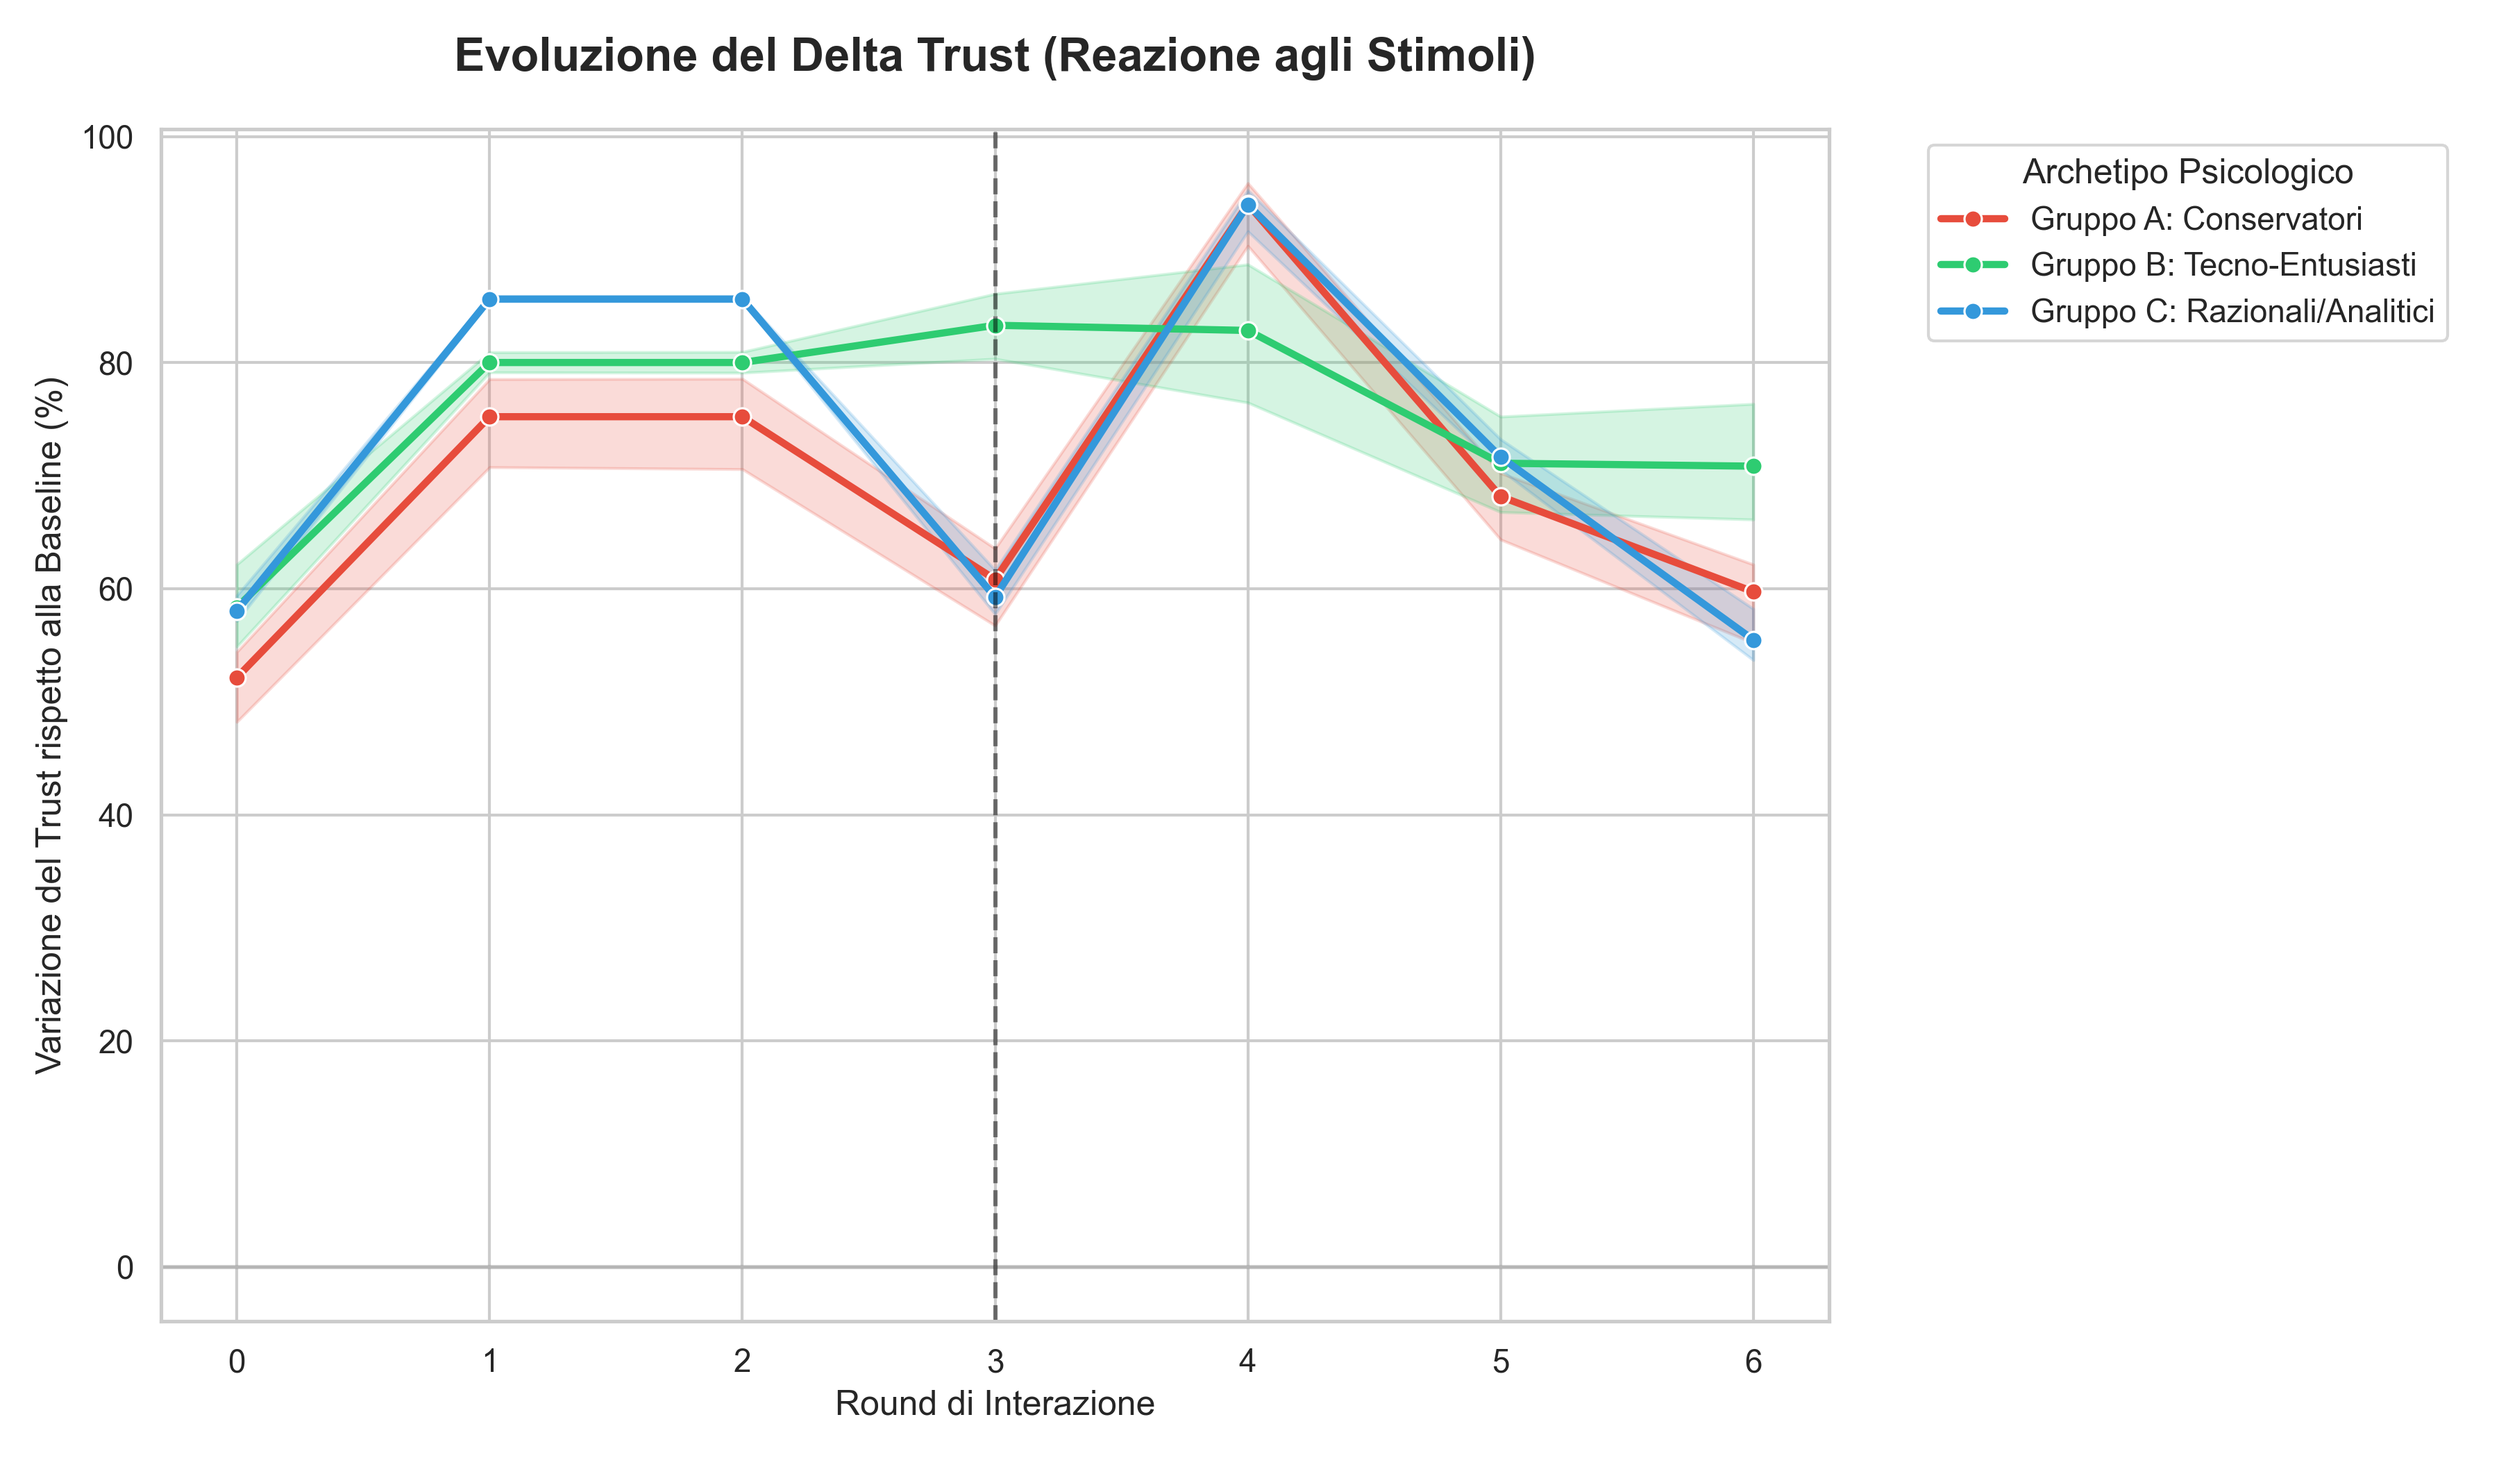
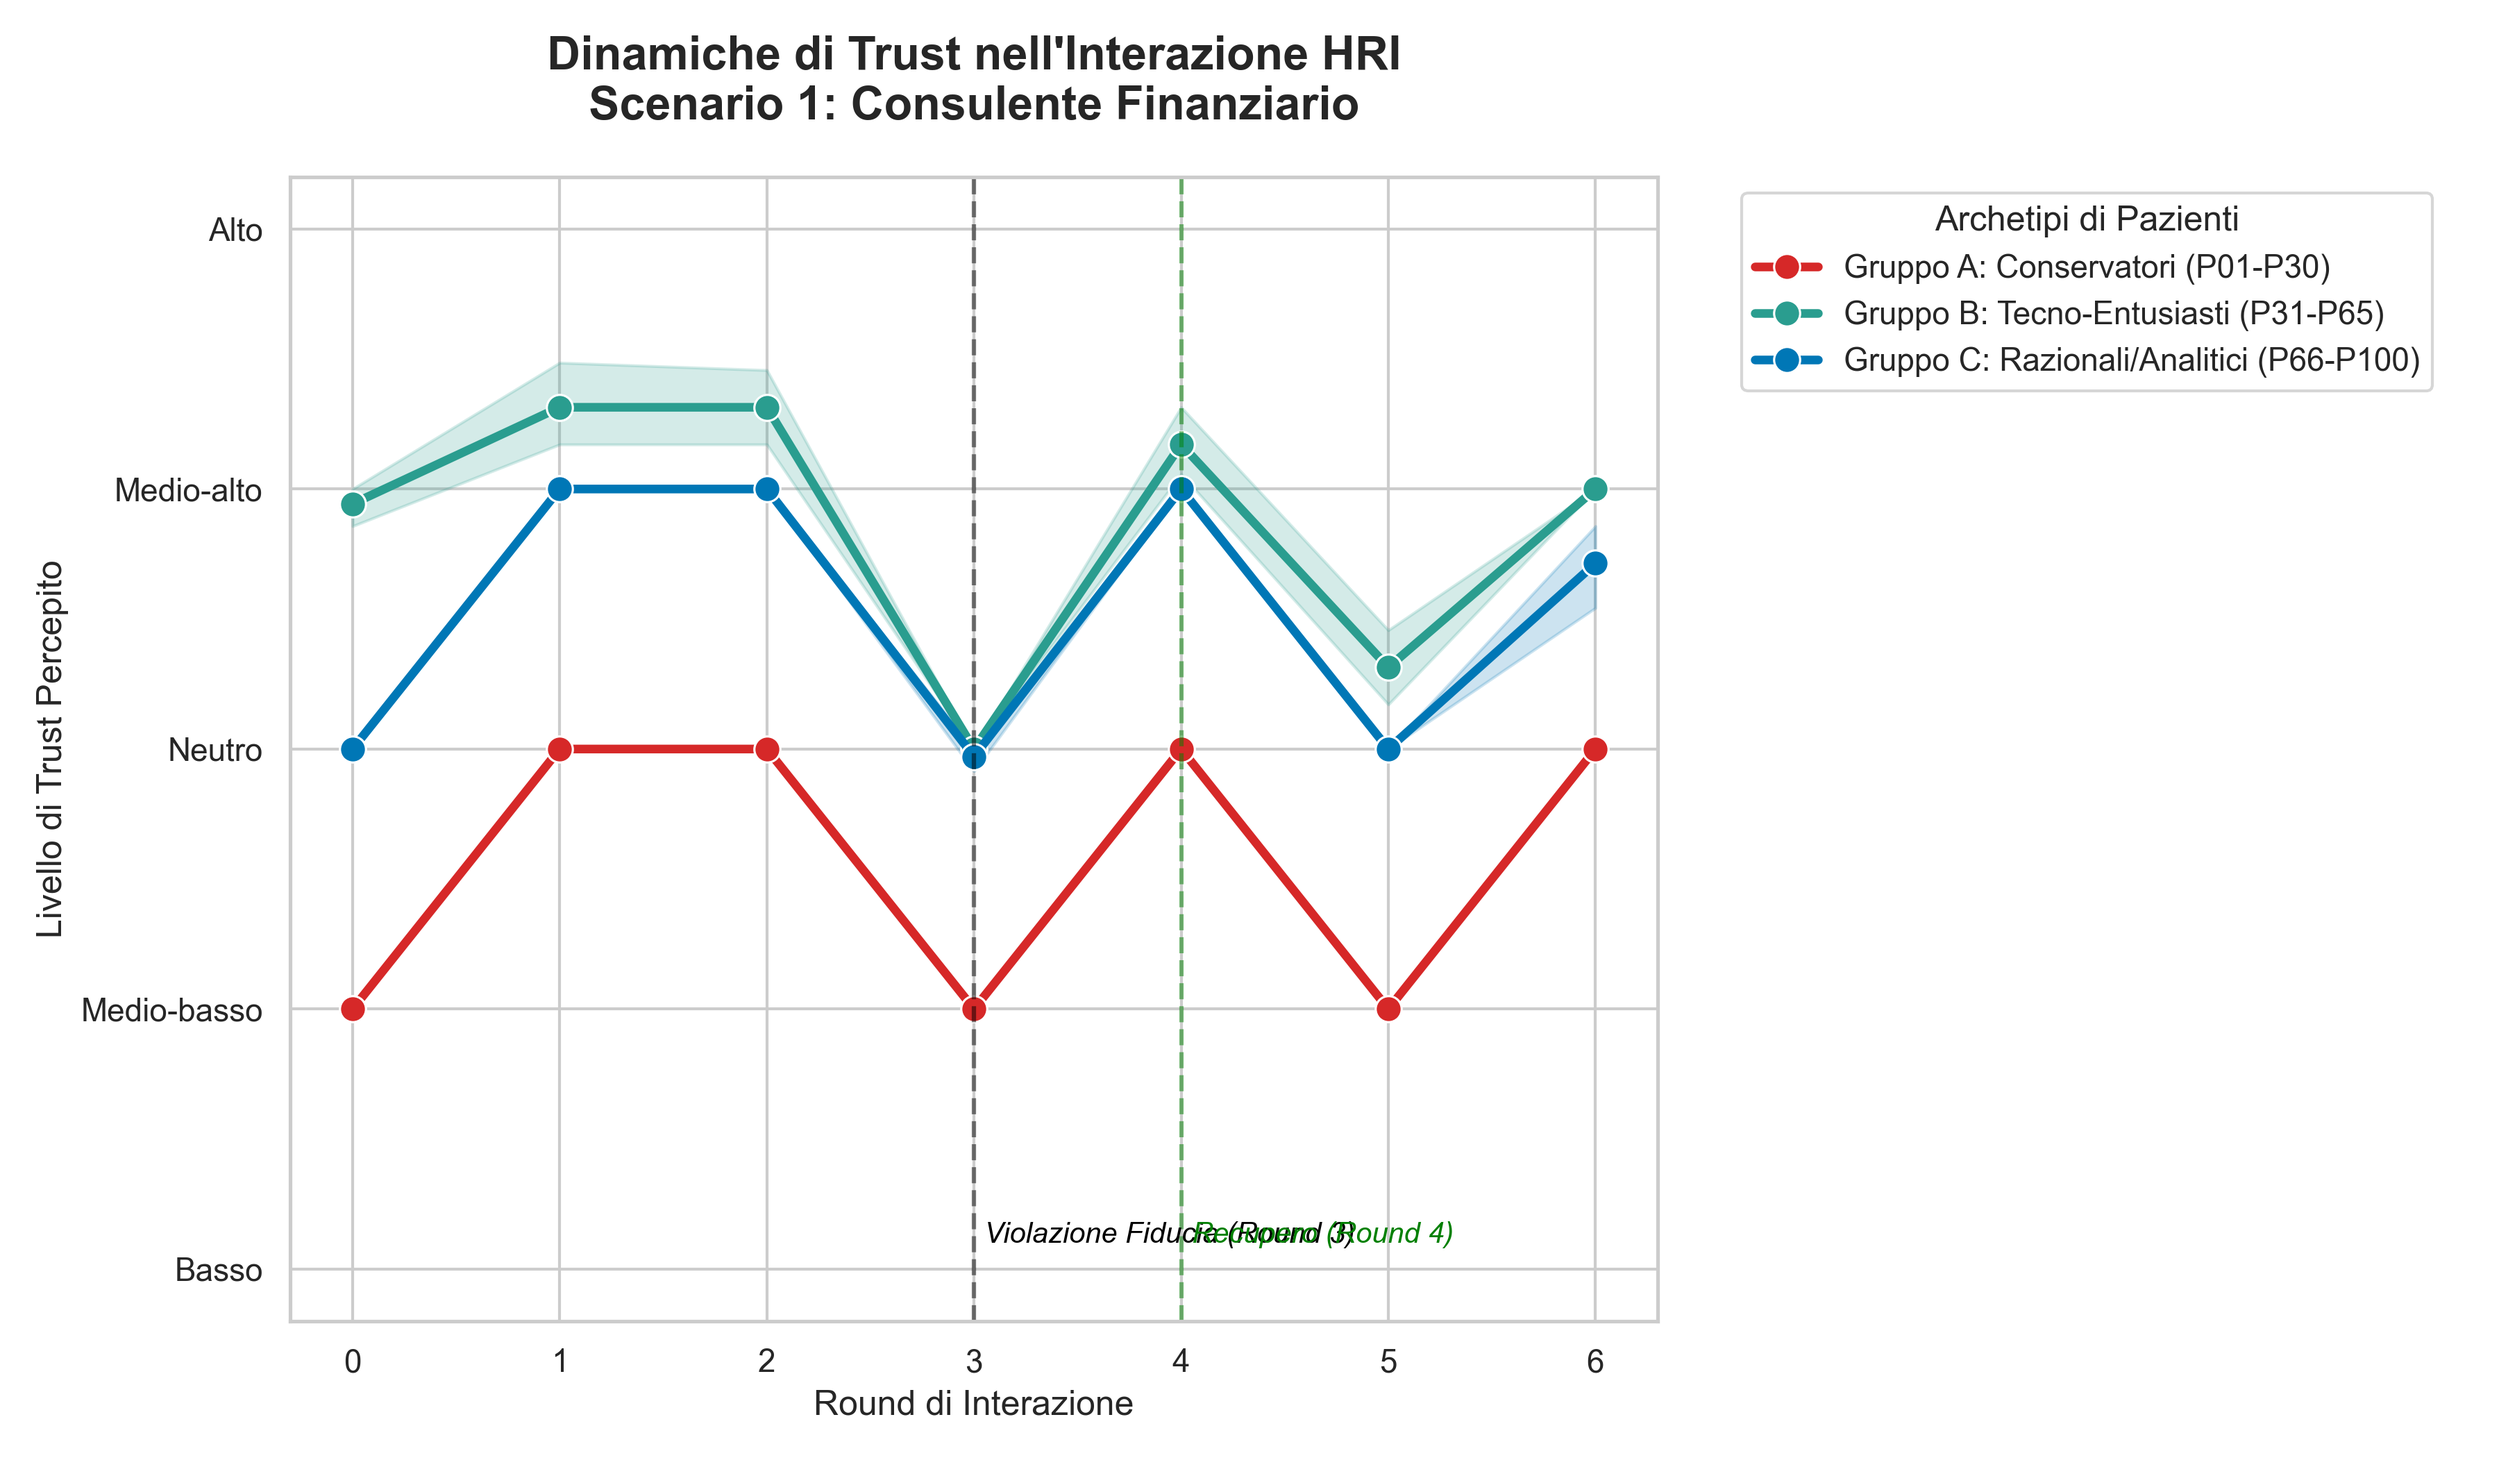
Aggiornati i gruppi e le etichette nel grafico finanziario e medico; migliorata l'estrazione dei dati di fiducia e la visualizzazione grafica.

diff --git a/genera_grafico_finanziario.py b/genera_grafico_finanziario.py
@@ -10,11 +10,20 @@ FILE_INPUT = "risultati_esperimento_finanziario.txt"
 def assegna_gruppo(user_id):
     num = int(user_id.replace("P", ""))
     if num <= 30:
-        return "Gruppo A: Conservatori"
+        return "Gruppo A: Conservatori (P01-P30)"
     elif num <= 65:
-        return "Gruppo B: Tecno-Entusiasti"
+        return "Gruppo B: Tecno-Entusiasti (P31-P65)"
     else:
-        return "Gruppo C: Razionali/Analitici"
+        return "Gruppo C: Razionali/Analitici (P66-P100)"
+
+# Mappa degli stati in valori numerici continui per poterli plottare
+state_to_num = {
+    'Basso': 1,
+    'Medio-basso': 2,
+    'Neutro': 3,
+    'Medio-alto': 4,
+    'Alto': 5
+}
 
 # Parse del file di testo
 dati_grafico = []
@@ -30,21 +39,21 @@ try:
                 gruppo = assegna_gruppo(utente_corrente)
                 continue
             
-            if  not utente_corrente:
+            if not utente_corrente:
                 continue
 
-            # Estrai il Trust Iniziale (Round 0)
-            match_t0 = re.search(r"TRUST INIZIALE \(Round 0\): .* \(([\d\.]+)%\)", linea)
+            # Estrai il Trust Iniziale (Round 0) - Estraiamo l'etichetta testuale
+            match_t0 = re.search(r"TRUST INIZIALE \(Round 0\): \**([a-zA-Z\-]+)\**", linea)
             if match_t0:
-                dati_grafico.append({"Utente": utente_corrente, "Gruppo": gruppo, "Round": 0, "Trust (%)": float(match_t0.group(1))})
+                stato = match_t0.group(1)
+                dati_grafico.append({"Utente": utente_corrente, "Gruppo": gruppo, "Round": 0, "Trust_Value": state_to_num.get(stato, 3)})
             
-            # Estrai il Trust dei Round 1-6 
-            # (Supporta sia la vecchia dicitura che la nuova dicitura "TRUST FINALE")
-            match_round = re.search(r"(?:TRUST CALCOLATO A FINE ROUND|TRUST FINALE \(ROUND) (\d)\)?: .* \(([\d\.]+)%\)", linea)
+            # Estrai il Trust dei Round 1-6 - Estraiamo l'etichetta testuale
+            match_round = re.search(r"(?:TRUST CALCOLATO A FINE ROUND|TRUST FINALE \(ROUND) (\d)\)?: \**([a-zA-Z\-]+)\**", linea)
             if match_round:
                 round_num = int(match_round.group(1))
-                trust_val = float(match_round.group(2))
-                dati_grafico.append({"Utente": utente_corrente, "Gruppo": gruppo, "Round": round_num, "Trust (%)": trust_val})
+                stato = match_round.group(2)
+                dati_grafico.append({"Utente": utente_corrente, "Gruppo": gruppo, "Round": round_num, "Trust_Value": state_to_num.get(stato, 3)})
 
 except FileNotFoundError:
     print(f"Errore: Il file {FILE_INPUT} non è stato trovato nella cartella.")
@@ -53,38 +62,45 @@ except FileNotFoundError:
 # Creazione del DataFrame Pandas
 df = pd.DataFrame(dati_grafico)
 
-# CALCOLO DEL DELTA TRUST
-# Calcoliamo il Trust_0 per ogni utente e sottraiamolo a ogni riga
-df['Trust_0'] = df.groupby('Utente')['Trust (%)'].transform(lambda x: x[x.index == 0].iloc[0] if len(x[x.index == 0]) > 0 else 0)
-df['Delta Trust (%)'] = df['Trust (%)'] - df['Trust_0']
-
 # ==========================================
-# CREAZIONE DEL GRAFICO (DELTA TRUST)
+# CREAZIONE DEL GRAFICO A LIVELLI (1-5)
 # ==========================================
 sns.set_theme(style="whitegrid")
 plt.figure(figsize=(12, 7))
 
+# Colori per rispettare il design dell'immagine
+palette = ["#d62828", "#2a9d8f", "#0077b6"] 
+
 ax = sns.lineplot(
     data=df, 
     x="Round", 
-    y="Delta Trust (%)",
+    y="Trust_Value",
     hue="Gruppo", 
-    palette=["#e74c3c", "#2ecc71", "#3498db"],
+    palette=palette,
     marker="o", 
-    linewidth=2.5,
-    errorbar='ci'
+    linewidth=3,
+    markersize=9,
+    errorbar='ci' # Mostra le bande di confidenza per validità statistica
 )
 
-# Linea dello zero (il punto di partenza comune)
-plt.axhline(0, color='gray', linestyle='-', alpha=0.3)
-# Linea del disastro
-plt.axvline(x=3, color='black', linestyle='--', alpha=0.5)
+# Sostituiamo i numeri sull'asse Y con le etichette di testo (Da Basso ad Alto)
+plt.yticks([1, 2, 3, 4, 5], ['Basso', 'Medio-basso', 'Neutro', 'Medio-alto', 'Alto'])
+plt.ylim(0.8, 5.2)
 
-plt.title("Evoluzione del Delta Trust (Reazione agli Stimoli)", fontsize=16, fontweight='bold', pad=20)
+# Linea del disastro e del recupero
+plt.axvline(x=3, color='black', linestyle='--', alpha=0.5)
+plt.text(3.05, 1.1, 'Violazione Fiducia (Round 3)', color='black', fontsize=10, fontstyle='italic')
+
+plt.axvline(x=4, color='green', linestyle='--', alpha=0.5)
+plt.text(4.05, 1.1, 'Recupero (Round 4)', color='green', fontsize=10, fontstyle='italic')
+
+plt.title("Dinamiche di Trust nell'Interazione HRI\nScenario 1: Consulente Finanziario", fontsize=16, fontweight='bold', pad=20)
 plt.xlabel("Round di Interazione", fontsize=12)
-plt.ylabel("Variazione del Trust rispetto alla Baseline (%)", fontsize=12)
+plt.ylabel("Livello di Trust Percepito", fontsize=12)
 plt.xticks(range(0, 7))
-plt.legend(title="Archetipo Psicologico", bbox_to_anchor=(1.05, 1), loc='upper left')
+
+# Posizioniamo la legenda fuori per non coprire le linee
+plt.legend(title="Archetipi di Pazienti", bbox_to_anchor=(1.05, 1), loc='upper left', fontsize=11)
 
 plt.tight_layout()
 plt.savefig("grafico_finanziario.png", dpi=300)

diff --git a/genera_grafico_medico.py b/genera_grafico_medico.py
@@ -23,17 +23,29 @@ except FileNotFoundError:
     exit()
 
 current_user = None
+gruppo = None
+
+def assegna_gruppo(utente):
+    num = int(utente.replace('P', ''))
+    if num <= 30: return 'Gruppo A: Ansiosi (P01-P30)'
+    elif num <= 65: return 'Gruppo B: Tecno-Entusiasti (P31-P65)'
+    else: return 'Gruppo C: Razionali (P66-P100)'
 
 for line in lines:
     if line.startswith('RISULTATI PER IL PAZIENTE:'):
         current_user = line.split(':')[1].strip()
-        
+        gruppo = assegna_gruppo(current_user)
+        continue
+    
+    if not current_user:
+        continue
+
     # Estrazione Trust Iniziale (Round 0)
     if 'TRUST INIZIALE (Round 0):' in line:
         match = re.search(r'Round 0\): ([a-zA-Z\-]+)', line)
         if match:
             stato = match.group(1)
-            dati_plot.append({'Utente': current_user, 'Round': 0, 'Trust_Value': state_to_num.get(stato, 3)})
+            dati_plot.append({'Utente': current_user, 'Gruppo': gruppo, 'Round': 0, 'Trust_Value': state_to_num.get(stato, 3)})
             
     # Estrazione Trust Round 1-6
     if '==> TRUST FINALE (ROUND' in line:
@@ -41,52 +53,58 @@ for line in lines:
         if match:
             rnd = int(match.group(1))
             stato = match.group(2)
-            dati_plot.append({'Utente': current_user, 'Round': rnd, 'Trust_Value': state_to_num.get(stato, 3)})
+            dati_plot.append({'Utente': current_user, 'Gruppo': gruppo, 'Round': rnd, 'Trust_Value': state_to_num.get(stato, 3)})
 
 df = pd.DataFrame(dati_plot)
 
-# Suddivisione nei 3 gruppi
-def assegna_gruppo(utente):
-    num = int(utente.replace('P', ''))
-    if num <= 30: return 'Gruppo A: Ansiosi (P01-P30)'
-    elif num <= 65: return 'Gruppo B: Tecno-Entusiasti (P31-P65)'
-    else: return 'Gruppo C: Razionali (P66-P100)'
-
-df['Gruppo'] = df['Utente'].apply(assegna_gruppo)
-
-# Creazione del Plot
-plt.figure(figsize=(12, 7))
+# ==========================================
+# CREAZIONE DEL GRAFICO A LIVELLI (1-5)
+# ==========================================
 sns.set_theme(style="whitegrid")
+plt.figure(figsize=(12, 7))
 
-# Colori a tema medico (Rosso allarme, Verde speranza, Blu analitico)
+# Colori a tema medico
 palette = {
     'Gruppo A: Ansiosi (P01-P30)': '#d62828', 
     'Gruppo B: Tecno-Entusiasti (P31-P65)': '#2a9d8f', 
     'Gruppo C: Razionali (P66-P100)': '#0077b6'
 }
 
-# Lineplot con media per gruppo
-ax = sns.lineplot(data=df, x='Round', y='Trust_Value', hue='Gruppo', 
-                  marker='o', linewidth=3, markersize=9, palette=palette, errorbar=None)
+# Lineplot con bande di confidenza per validità statistica
+ax = sns.lineplot(
+    data=df, 
+    x='Round', 
+    y='Trust_Value', 
+    hue='Gruppo', 
+    palette=palette,
+    marker='o', 
+    linewidth=3, 
+    markersize=9, 
+    errorbar='ci'
+)
+
+# Sostituiamo i numeri sull'asse Y con le etichette testuali
+plt.yticks([1, 2, 3, 4, 5], ['Basso', 'Medio-basso', 'Neutro', 'Medio-alto', 'Alto'])
+plt.ylim(0.8, 5.2)
 
 plt.title('Dinamiche di Trust nell\'Interazione HRI\nScenario 2: Assistente Medico-Nutrizionale', 
           fontsize=16, fontweight='bold', pad=20)
 plt.xlabel('Round di Interazione', fontsize=12, labelpad=10)
 plt.ylabel('Livello di Trust Percepito', fontsize=12, labelpad=10)
-
-plt.yticks([1, 2, 3, 4, 5], ['Basso', 'Medio-basso', 'Neutro', 'Medio-alto', 'Alto'])
-plt.ylim(0.8, 5.2)
+plt.xticks(range(0, 7))
 
 # Linee verticali per gli eventi narrativi
-plt.axvline(x=3, color='black', linestyle='--', alpha=0.6)
+plt.axvline(x=3, color='black', linestyle='--', alpha=0.5)
 plt.text(3.05, 1.1, 'Errore Medico (Round 3)', color='black', fontsize=10, fontstyle='italic')
 
-plt.axvline(x=4, color='green', linestyle='--', alpha=0.6)
+plt.axvline(x=4, color='green', linestyle='--', alpha=0.5)
 plt.text(4.05, 1.1, 'Recupero e Scuse (Round 4)', color='green', fontsize=10, fontstyle='italic')
 
-plt.legend(title='Archetipi di Pazienti', fontsize=11, title_fontsize=12, loc='lower right')
+# Posizioniamo la legenda fuori per pulizia visiva
+plt.legend(title='Archetipi di Pazienti', bbox_to_anchor=(1.05, 1), loc='upper left', fontsize=11, title_fontsize=12)
+
 plt.tight_layout()
 
 # Salvataggio
 plt.savefig('grafico_medico.png', dpi=300)
-print("Plot generato e salvato come 'plot_trust_scenario_medico.png'")
+plt.show()
